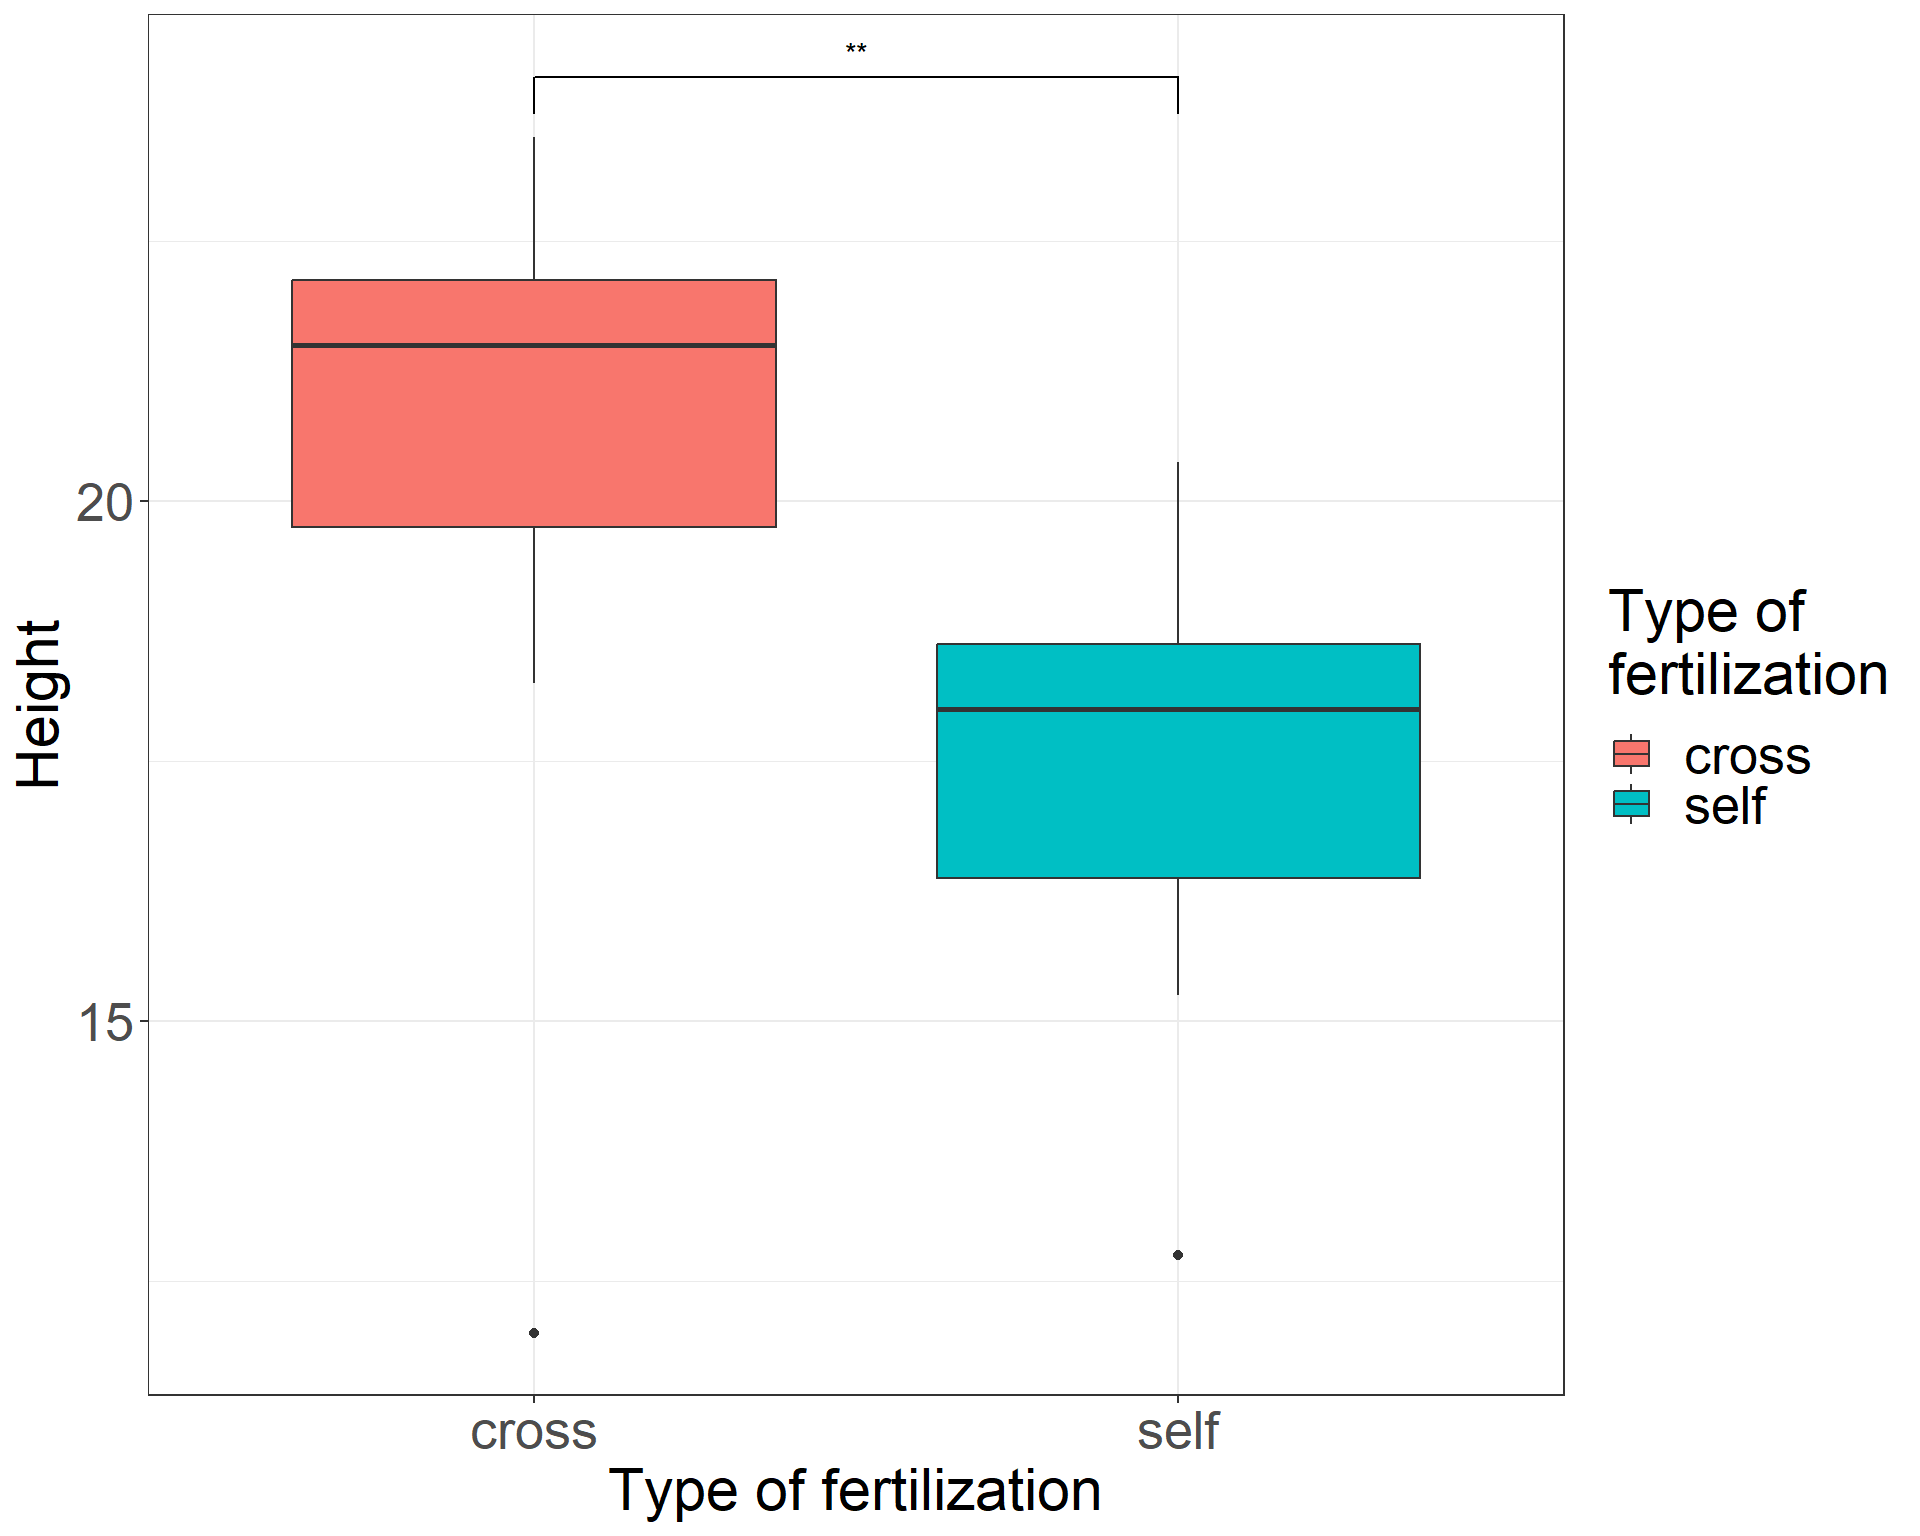
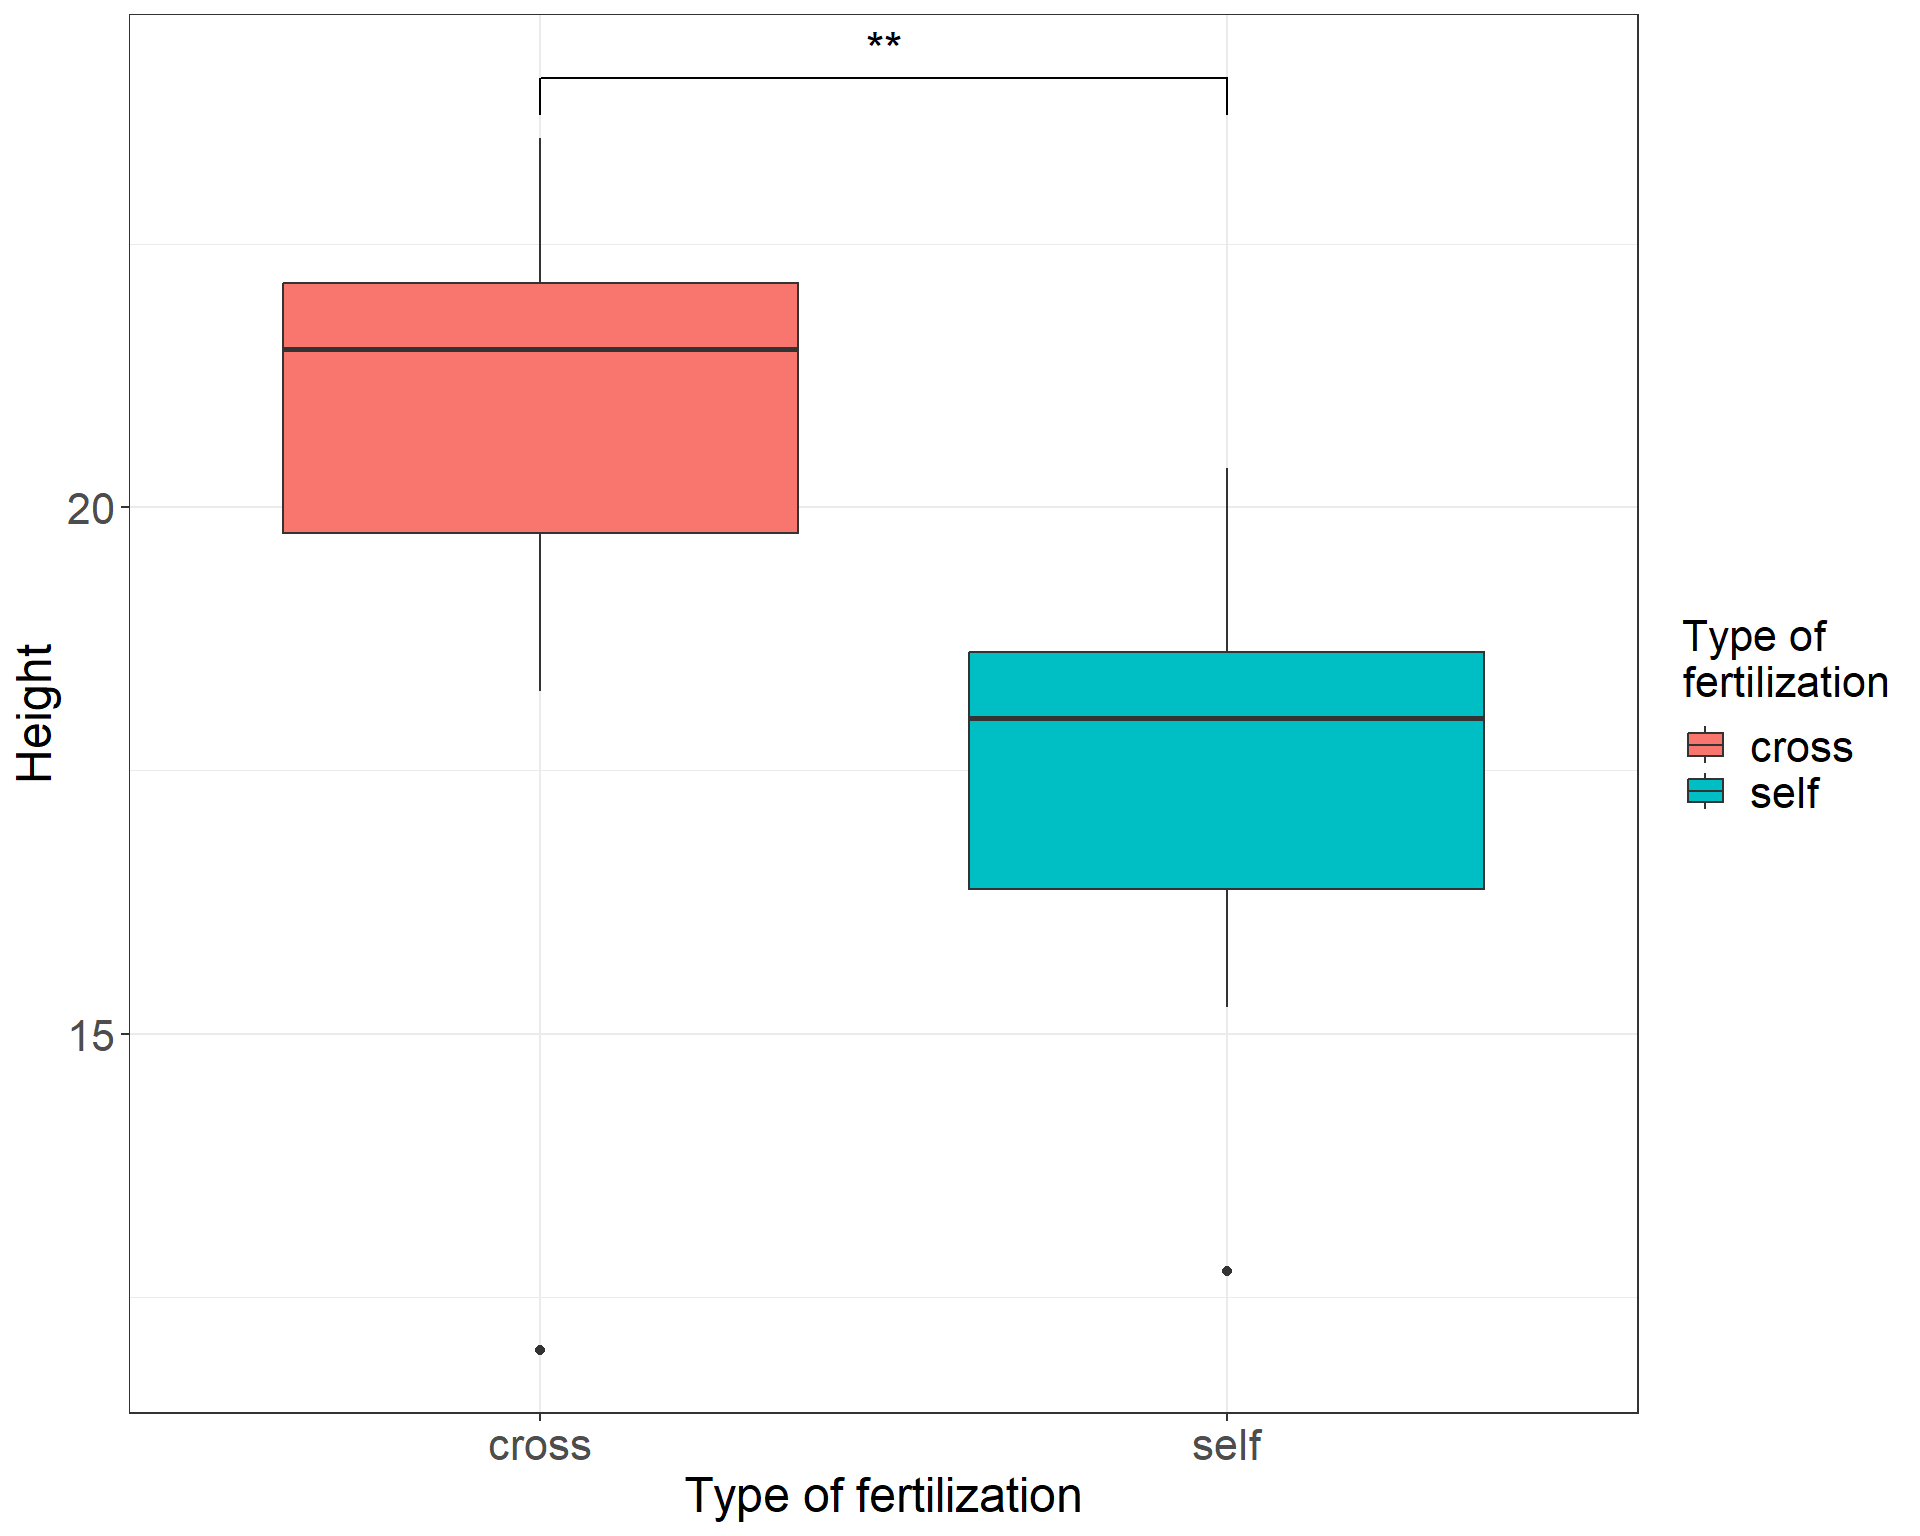
Final updates to presentation

diff --git a/ASHS_presentation_Jan2023.html b/ASHS_presentation_Jan2023.html
@@ -444,7 +444,7 @@ Brittany Barker
 <section id="presentation-outline" class="slide level2">
 <h2>Presentation outline</h2>
 <ul>
-<li>Introduction to R and Rstudio<br>
+<li>Introduction to R and RStudio<br>
 </li>
 <li>Introduction to the Tidyverse</li>
 <li>Examples: data visualization and analysis
@@ -475,7 +475,7 @@ Brittany Barker
 <section id="limitations-of-r" class="slide level2">
 <h2>Limitations of R</h2>
 <ul>
-<li>Steep learning curve, but <code>Rstudio</code> can help overcome this limitation<br>
+<li>Steep learning curve, but <code>RStudio</code> can help overcome this limitation<br>
 </li>
 <li>Hungry for physical memory: stores all data in physical memory<br>
 </li>
@@ -533,7 +533,7 @@ Brittany Barker
 <li>Write simpler, more readable code</li>
 </ul>
 
-<img data-src="images/tidyverse_packages_purpose.png" width="1000" class="r-stretch quarto-figure-left"><p class="caption">Source: education.rstudio.com</p></section>
+<img data-src="images/tidyverse_packages_purpose.png" width="1000" class="r-stretch quarto-figure-left"><p class="caption">Source: education.RStudio.com</p></section>
 <section id="essential-packages-dplyr-and-tidyr" class="slide level2">
 <h2>Essential packages: <code>dplyr</code> and <code>tidyr</code></h2>
 <p>As a scientist, you spend a huge amount of time preparing, organizing, formatting, and cleaning data</p>
@@ -895,7 +895,7 @@ Brittany Barker
 <span id="cb25-8"><a href="#cb25-8"></a>        <span class="at">axis.title =</span> <span class="fu">element_text</span>(<span class="at">size =</span> <span class="dv">18</span>))</span></code><button title="Copy to Clipboard" class="code-copy-button"><i class="bi"></i></button></pre></div>
 </div>
 <ul>
-<li>Force the y-axis to start 0</li>
+<li>Force the y-axis to start at 0</li>
 </ul>
 </section>
 <section id="add-layers-to-improve-the-bar-plot-1" class="slide level2">
@@ -962,7 +962,7 @@ Brittany Barker
 <ul>
 <li>Question 2: How does the environment influence yield?</li>
 <li>Access environmental (weather) dataset from <code>agridat</code></li>
-<li>Sort by <code>site</code> column using <code>arrange()</code></li>
+<li>Sort by the <code>site</code> column using <code>arrange()</code></li>
 </ul>
 <div class="cell">
 <div class="sourceCode cell-code" id="cb29"><pre class="sourceCode numberSource r number-lines code-with-copy"><code class="sourceCode r"><span id="cb29-1"><a href="#cb29-1"></a><span class="co"># Get weather data and sort by site</span></span>
@@ -1014,7 +1014,7 @@ Brittany Barker
 <span id="cb32-4"><a href="#cb32-4"></a>  <span class="fu">summarize</span>(<span class="at">mean_yield =</span> <span class="fu">mean</span>(yield))</span></code><button title="Copy to Clipboard" class="code-copy-button"><i class="bi"></i></button></pre></div>
 </div>
 <ul>
-<li>Group yield data by site using (<code>group_by</code>)</li>
+<li>Group yield data by site using <code>group_by()</code></li>
 <li>Calculate mean yield using <code>summarize()</code></li>
 </ul>
 </section>
@@ -1143,7 +1143,7 @@ Brittany Barker
 </div>
 <ul>
 <li>Join summarized yield and environment datasets <code>left_join()</code></li>
-<li>Change to structure to long format using <code>pivot_longer()</code></li>
+<li>Re-format data to “long” format using <code>pivot_longer()</code></li>
 </ul>
 </section>
 <section id="step-3-join-and-reformat-results-2" class="slide level2">
@@ -1255,7 +1255,7 @@ Brittany Barker
 <li>Create a scatter plot using <code>geom_point()</code></li>
 <li>Add a linear regression line using <code>geom_smooth()</code> with <code>lm</code> method</li>
 <li>Create plots for each site and covariate using <code>facet_nested_wrap</code></li>
-<li>Make plot prettier by adding more layers (font sizes, etc.)</li>
+<li>Make plot prettier by adding more layers (custom labels, larger font sizes, etc.)</li>
 </ul>
 </section>
 <section id="step-4-plot-yield-vs.-environmental-covariates-4" class="slide level2">
@@ -1266,7 +1266,7 @@ Brittany Barker
 <section id="presentation-outline-3" class="slide level2">
 <h2>Presentation outline</h2>
 <ul>
-<li>Introduction to R and Rstudio</li>
+<li>Introduction to R and RStudio</li>
 <li>Introduction to the Tidyverse<br>
 </li>
 <li>Examples: data visualization and analysis
@@ -1503,7 +1503,7 @@ Number of Fisher Scoring iterations: 7</code></pre>
 <section id="presentation-outline-4" class="slide level2">
 <h2>Presentation outline</h2>
 <ul>
-<li>Introduction to R and Rstudio</li>
+<li>Introduction to R and RStudio</li>
 <li>Introduction to the Tidyverse<br>
 </li>
 <li>Examples: data visualization and analysis
@@ -1540,7 +1540,7 @@ Number of Fisher Scoring iterations: 7</code></pre>
 <span id="cb57-8"><a href="#cb57-8"></a>  <span class="fu">mutate</span>(<span class="at">diff =</span> cross <span class="sc">-</span> self)</span></code><button title="Copy to Clipboard" class="code-copy-button"><i class="bi"></i></button></pre></div>
 </div>
 <ul>
-<li>Re-format data to “wide” format</li>
+<li>Re-format data to “wide” format using <code>pivot_wider()</code></li>
 </ul>
 </section>
 <section id="one-sided-t-test-maize-plant-heights-1" class="slide level2">
@@ -1598,15 +1598,16 @@ mean of x
 <span id="cb61-3"><a href="#cb61-3"></a>  <span class="fu">geom_boxplot</span>() <span class="sc">+</span> <span class="co"># box plot</span></span>
 <span id="cb61-4"><a href="#cb61-4"></a>  ggsignif<span class="sc">::</span><span class="fu">geom_signif</span>(<span class="at">comparisons =</span> <span class="fu">list</span>(<span class="fu">c</span>(<span class="st">"cross"</span>, <span class="st">"self"</span>)), </span>
 <span id="cb61-5"><a href="#cb61-5"></a>            <span class="at">map_signif_level =</span> <span class="cn">TRUE</span>, <span class="co"># add significance values</span></span>
-<span id="cb61-6"><a href="#cb61-6"></a>            <span class="at">alternative =</span> <span class="st">"greater"</span>) <span class="sc">+</span> <span class="co"># Crossed plants higher</span></span>
-<span id="cb61-7"><a href="#cb61-7"></a>  <span class="fu">theme_bw</span>() <span class="sc">+</span></span>
-<span id="cb61-8"><a href="#cb61-8"></a>  <span class="fu">xlab</span>(<span class="st">"Type of fertilization"</span>) <span class="sc">+</span> <span class="co"># x-axis label</span></span>
-<span id="cb61-9"><a href="#cb61-9"></a>  <span class="fu">ylab</span>(<span class="st">"Height"</span>) <span class="sc">+</span> <span class="co"># y-axis label</span></span>
-<span id="cb61-10"><a href="#cb61-10"></a>  <span class="fu">labs</span>(<span class="at">fill =</span> <span class="st">"Type of</span><span class="sc">\n</span><span class="st">fertilization"</span>) <span class="sc">+</span> <span class="co"># new legend title</span></span>
-<span id="cb61-11"><a href="#cb61-11"></a>  <span class="fu">theme</span>(<span class="at">axis.text =</span> <span class="fu">element_text</span>(<span class="at">size =</span> <span class="dv">16</span>), <span class="co"># Increase font sizes</span></span>
-<span id="cb61-12"><a href="#cb61-12"></a>        <span class="at">axis.title =</span> <span class="fu">element_text</span>(<span class="at">size =</span> <span class="dv">18</span>),</span>
-<span id="cb61-13"><a href="#cb61-13"></a>        <span class="at">legend.text =</span> <span class="fu">element_text</span>(<span class="at">size =</span> <span class="dv">16</span>),</span>
-<span id="cb61-14"><a href="#cb61-14"></a>        <span class="at">legend.title =</span> <span class="fu">element_text</span>(<span class="at">size =</span> <span class="dv">16</span>))</span></code><button title="Copy to Clipboard" class="code-copy-button"><i class="bi"></i></button></pre></div>
+<span id="cb61-6"><a href="#cb61-6"></a>            <span class="at">alternative =</span> <span class="st">"greater"</span>,  <span class="co">#H: Crossed plants higher</span></span>
+<span id="cb61-7"><a href="#cb61-7"></a>            <span class="at">textsize =</span> <span class="dv">12</span>) <span class="sc">+</span> <span class="co"># Asterisk size</span></span>
+<span id="cb61-8"><a href="#cb61-8"></a>  <span class="fu">theme_bw</span>() <span class="sc">+</span></span>
+<span id="cb61-9"><a href="#cb61-9"></a>  <span class="fu">xlab</span>(<span class="st">"Type of fertilization"</span>) <span class="sc">+</span> <span class="co"># x-axis label</span></span>
+<span id="cb61-10"><a href="#cb61-10"></a>  <span class="fu">ylab</span>(<span class="st">"Height"</span>) <span class="sc">+</span> <span class="co"># y-axis label</span></span>
+<span id="cb61-11"><a href="#cb61-11"></a>  <span class="fu">labs</span>(<span class="at">fill =</span> <span class="st">"Type of</span><span class="sc">\n</span><span class="st">fertilization"</span>) <span class="sc">+</span> <span class="co"># new legend title</span></span>
+<span id="cb61-12"><a href="#cb61-12"></a>  <span class="fu">theme</span>(<span class="at">axis.text =</span> <span class="fu">element_text</span>(<span class="at">size =</span> <span class="dv">16</span>), <span class="co"># Increase font sizes</span></span>
+<span id="cb61-13"><a href="#cb61-13"></a>        <span class="at">axis.title =</span> <span class="fu">element_text</span>(<span class="at">size =</span> <span class="dv">18</span>),</span>
+<span id="cb61-14"><a href="#cb61-14"></a>        <span class="at">legend.text =</span> <span class="fu">element_text</span>(<span class="at">size =</span> <span class="dv">16</span>),</span>
+<span id="cb61-15"><a href="#cb61-15"></a>        <span class="at">legend.title =</span> <span class="fu">element_text</span>(<span class="at">size =</span> <span class="dv">16</span>))</span></code><button title="Copy to Clipboard" class="code-copy-button"><i class="bi"></i></button></pre></div>
 </div>
 </section>
 <section id="box-plots-and-t-test-maize-plant-heights-1" class="slide level2">
@@ -1619,15 +1620,17 @@ mean of x
 <span id="cb62-2"><a href="#cb62-2"></a>plot_corn <span class="ot">&lt;-</span> <span class="fu">ggplot</span>(dat_corn, <span class="fu">aes</span>(<span class="at">x =</span> type, <span class="at">y =</span> height, <span class="at">fill =</span> type)) <span class="sc">+</span></span>
 <span id="cb62-3"><a href="#cb62-3"></a>  <span class="fu">geom_boxplot</span>() <span class="sc">+</span> <span class="co"># box plot</span></span>
 <span id="cb62-4"><a href="#cb62-4"></a>  ggsignif<span class="sc">::</span><span class="fu">geom_signif</span>(<span class="at">comparisons =</span> <span class="fu">list</span>(<span class="fu">c</span>(<span class="st">"cross"</span>, <span class="st">"self"</span>)), </span>
-<span id="cb62-5"><a href="#cb62-5"></a>            <span class="at">map_signif_level =</span> <span class="cn">TRUE</span>) <span class="sc">+</span> <span class="co"># add significance values</span></span>
-<span id="cb62-6"><a href="#cb62-6"></a>  <span class="fu">theme_bw</span>() <span class="sc">+</span></span>
-<span id="cb62-7"><a href="#cb62-7"></a>  <span class="fu">xlab</span>(<span class="st">"Type of fertilization"</span>) <span class="sc">+</span> <span class="co"># x-axis label</span></span>
-<span id="cb62-8"><a href="#cb62-8"></a>  <span class="fu">ylab</span>(<span class="st">"Height"</span>) <span class="sc">+</span> <span class="co"># y-axis label</span></span>
-<span id="cb62-9"><a href="#cb62-9"></a>  <span class="fu">labs</span>(<span class="at">fill =</span> <span class="st">"Type of</span><span class="sc">\n</span><span class="st">fertilization"</span>) <span class="sc">+</span> <span class="co"># new legend title</span></span>
-<span id="cb62-10"><a href="#cb62-10"></a>  <span class="fu">theme</span>(<span class="at">axis.text =</span> <span class="fu">element_text</span>(<span class="at">size =</span> <span class="dv">20</span>), <span class="co"># Increase font sizes</span></span>
-<span id="cb62-11"><a href="#cb62-11"></a>        <span class="at">axis.title =</span> <span class="fu">element_text</span>(<span class="at">size =</span> <span class="dv">22</span>),</span>
-<span id="cb62-12"><a href="#cb62-12"></a>        <span class="at">legend.text =</span> <span class="fu">element_text</span>(<span class="at">size =</span> <span class="dv">20</span>),</span>
-<span id="cb62-13"><a href="#cb62-13"></a>        <span class="at">legend.title =</span> <span class="fu">element_text</span>(<span class="at">size =</span> <span class="dv">22</span>))</span></code><button title="Copy to Clipboard" class="code-copy-button"><i class="bi"></i></button></pre></div>
+<span id="cb62-5"><a href="#cb62-5"></a>            <span class="at">map_signif_level =</span> <span class="cn">TRUE</span>, <span class="co"># add significance values</span></span>
+<span id="cb62-6"><a href="#cb62-6"></a>            <span class="at">alternative =</span> <span class="st">"greater"</span>,  <span class="co">#H: Crossed plants higher</span></span>
+<span id="cb62-7"><a href="#cb62-7"></a>            <span class="at">textsize =</span> <span class="dv">6</span>) <span class="sc">+</span> <span class="co"># Asterisk size</span></span>
+<span id="cb62-8"><a href="#cb62-8"></a>  <span class="fu">theme_bw</span>() <span class="sc">+</span></span>
+<span id="cb62-9"><a href="#cb62-9"></a>  <span class="fu">xlab</span>(<span class="st">"Type of fertilization"</span>) <span class="sc">+</span> <span class="co"># x-axis label</span></span>
+<span id="cb62-10"><a href="#cb62-10"></a>  <span class="fu">ylab</span>(<span class="st">"Height"</span>) <span class="sc">+</span> <span class="co"># y-axis label</span></span>
+<span id="cb62-11"><a href="#cb62-11"></a>  <span class="fu">labs</span>(<span class="at">fill =</span> <span class="st">"Type of</span><span class="sc">\n</span><span class="st">fertilization"</span>) <span class="sc">+</span> <span class="co"># new legend title</span></span>
+<span id="cb62-12"><a href="#cb62-12"></a>  <span class="fu">theme</span>(<span class="at">axis.text =</span> <span class="fu">element_text</span>(<span class="at">size =</span> <span class="dv">16</span>), <span class="co"># Increase font sizes</span></span>
+<span id="cb62-13"><a href="#cb62-13"></a>        <span class="at">axis.title =</span> <span class="fu">element_text</span>(<span class="at">size =</span> <span class="dv">18</span>),</span>
+<span id="cb62-14"><a href="#cb62-14"></a>        <span class="at">legend.text =</span> <span class="fu">element_text</span>(<span class="at">size =</span> <span class="dv">16</span>),</span>
+<span id="cb62-15"><a href="#cb62-15"></a>        <span class="at">legend.title =</span> <span class="fu">element_text</span>(<span class="at">size =</span> <span class="dv">16</span>))</span></code><button title="Copy to Clipboard" class="code-copy-button"><i class="bi"></i></button></pre></div>
 </div>
 </div><div class="column" style="width:50%;">
 <div class="cell">
@@ -1739,7 +1742,7 @@ mean of x
 <li>Modern R with the tidyverse: <a href="http://modern-rstats.eu" class="uri">http://modern-rstats.eu</a></li>
 <li>Statistical Inference via Data Science: A ModernDive into R and the tidyverse: <a href="https://moderndive.com/index.html" class="uri">https://moderndive.com/index.html</a></li>
 <li>R for Data Science: <a href="https://r4ds.had.co.nz" class="uri">https://r4ds.had.co.nz</a></li>
-<li>R Manuals::An Introduction to R: &lt;https://rstudio.github.io/r-manuals/ Links to an external site&gt;</li>
+<li>R Manuals::An Introduction to R: <a href="https://RStudio.github.io/r-manuals" class="uri">https://RStudio.github.io/r-manuals</a></li>
 </ul>
 </section>
 <section id="time-series-mean-yield-across-sites-years" class="slide level2">
